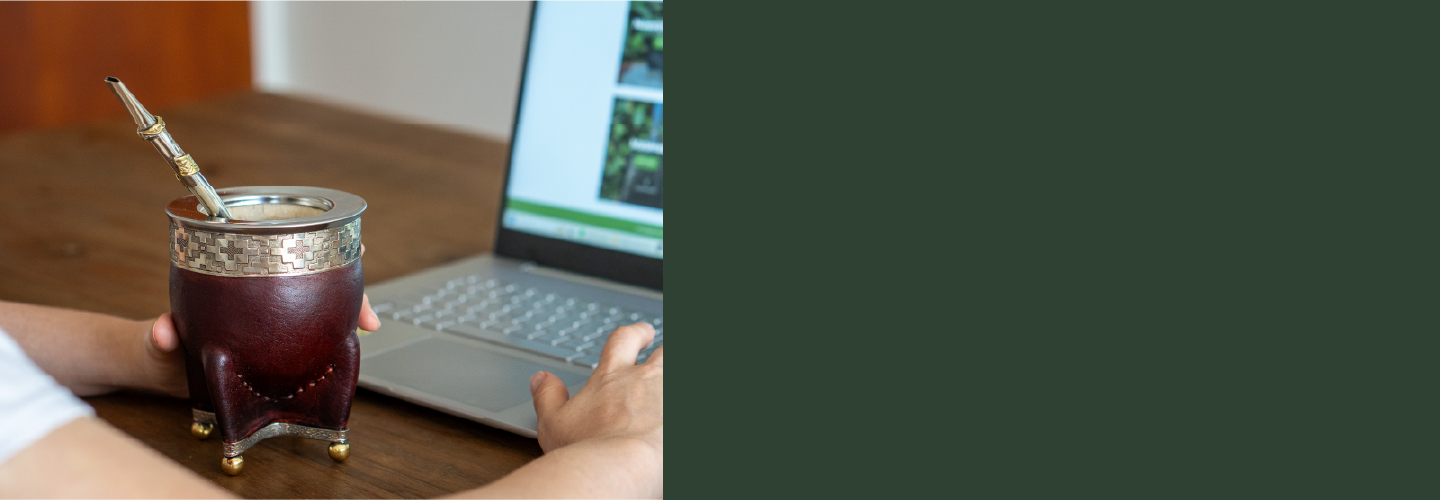
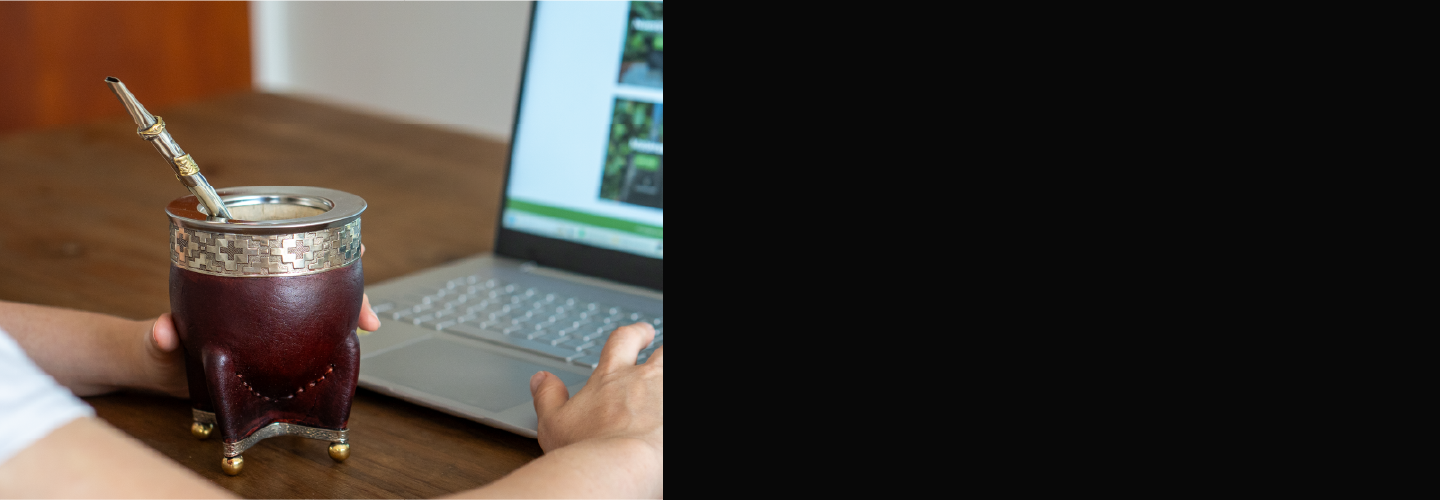
correccion de border y el slider de comunidad

diff --git a/css/principal.css b/css/principal.css
@@ -306,7 +306,7 @@ body {
 /*=========== INFORMACION ====================*/
 
 .informacion {
-  background: #050505;
+  background: #2f4132;
   padding: 70px 20px;
 }
 
@@ -779,7 +779,11 @@ body {
   max-width: 250px;
   background: #111;
   border-radius: 14px;
-  padding: 5px;
+  padding-top: 10px;
+  padding-left: 10px;
+  padding-right: 10px;
+  padding-bottom: 8px;
+
   position: relative;
   border: 1px solid #b3b3b3;
   transition: 0.3s;
@@ -1040,7 +1044,12 @@ body {
   max-width: 230px;
   border: 1px solid #fff;
   border-radius: 16px;
-  padding: 12px;
+
+  padding-top: 10px;
+  padding-left: 10px;
+  padding-right: 10px;
+  padding-bottom: 8px;
+
   color: #fff;
   display: flex;
   flex-direction: column;
@@ -1233,33 +1242,89 @@ body {
 /* Responsive */
 @media (max-width: 900px) {
   .reviews {
-    height: 25rem;
+    height: auto;
     border-radius: 20px;
-
-    padding: 20px 40px;
+    padding: 20px 0;
     text-align: center;
     color: #fff;
     margin-bottom: 1rem;
-    margin-top: 1rem;
+    margin-top: 2rem;
+    overflow: hidden;
   }
 
   .reviews h2 {
-    margin-top: 0px;
-    margin-bottom: 0px;
-    padding: 0;
+    margin-top: 0;
+    margin-bottom: 25px;
+    padding: 0 20px;
   }
 
+  /* Contenedor visible del slider */
+  .reviews-slider {
+    width: 100%;
+    max-width: 100%;
+    overflow: hidden;
+    margin: 0;
+  }
+
+  /* Carrusel táctil */
+  .reviews-track {
+    display: flex;
+    gap: 0;
+
+    overflow-x: auto;
+    overflow-y: hidden;
+
+    scroll-snap-type: x mandatory;
+    scroll-behavior: smooth;
+
+    -webkit-overflow-scrolling: touch;
+
+    scrollbar-width: none;
+  }
+
+  /* Ocultar scrollbar en Chrome/Safari */
+  .reviews-track::-webkit-scrollbar {
+    display: none;
+  }
+
+  /* Cada tarjeta ocupa el espacio disponible */
   .review-card {
-    margin-top: 2px;
-    min-width: 100%;
+    flex: 0 0 calc(100% - 40px);
+
+    width: calc(100% - 40px);
+
+    margin: 5px 20px;
+
+    box-sizing: border-box;
+
+    scroll-snap-align: center;
   }
 
-  .reviews-arrow.left {
-    left: 10px;
+  .review-inner {
+    gap: 12px;
+    padding: 10px;
   }
 
-  .reviews-arrow.right {
-    right: 10px;
+  .review-avatar {
+    width: 60px;
+    height: 60px;
+    font-size: 28px;
+  }
+
+  .review-text {
+    font-size: 14px;
+    line-height: 1.5;
+    max-width: 280px;
+  }
+
+  .review-name {
+    font-size: 11px;
+    margin-top: 10px;
+  }
+
+  /* Ocultamos las flechas en mobile */
+  .reviews-arrow {
+    display: none;
   }
 }
 
@@ -1865,4 +1930,13 @@ body {
 
 .accessories-add:hover {
   background: #d19d4c;
+}
+
+.accessories-installments {
+  font-family: var(--font-normal);
+  font-size: 0.9rem;
+  color: #aaa;
+  margin-top: 0;
+  margin-bottom: 8px;
+  line-height: 1.3;
 }

diff --git a/js/review.js b/js/review.js
@@ -88,7 +88,27 @@ document.addEventListener("DOMContentLoaded", () => {
   function updateReviewsSlider() {
     if (!cards.length) return;
 
+    const isMobile = window.innerWidth <= 900;
+
+    if (isMobile) {
+      const card = cards[index];
+
+      if (!card) return;
+
+      const scrollPosition =
+        card.offsetLeft - (track.clientWidth - card.offsetWidth) / 2;
+
+      track.scrollTo({
+        left: scrollPosition,
+        behavior: "smooth",
+      });
+
+      return;
+    }
+
+    // Desktop
     const cardWidth = cards[0].offsetWidth;
+
     track.style.transform = `translateX(-${index * cardWidth}px)`;
   }
 
@@ -104,6 +124,38 @@ document.addEventListener("DOMContentLoaded", () => {
   /* ===================== INIT ===================== */
   renderReviews();
   initReviewsSlider();
+
+  /* ===================== MOBILE SWIPE ===================== */
+
+  let scrollTimeout;
+
+  track.addEventListener("scroll", () => {
+    if (window.innerWidth > 900) return;
+
+    clearTimeout(scrollTimeout);
+
+    scrollTimeout = setTimeout(() => {
+      if (!cards.length) return;
+
+      const trackCenter = track.scrollLeft + track.clientWidth / 2;
+
+      let closestIndex = 0;
+      let closestDistance = Infinity;
+
+      cards.forEach((card, i) => {
+        const cardCenter = card.offsetLeft + card.offsetWidth / 2;
+
+        const distance = Math.abs(trackCenter - cardCenter);
+
+        if (distance < closestDistance) {
+          closestDistance = distance;
+          closestIndex = i;
+        }
+      });
+
+      index = closestIndex;
+    }, 100);
+  });
 
   setInterval(nextReview, 4000);
   window.addEventListener("resize", updateReviewsSlider);

diff --git a/js/principal.js b/js/principal.js
@@ -622,21 +622,19 @@ async function loadAccessories() {
 
       card.className = "accessories-card";
 
-      card.innerHTML = `
-        <img
-          src="${product.image?.[0] || ""}"
-          alt="${product.name}"
-        >
-
-        <h3 class="accessories-name">
-          ${product.name}
-        </h3>
-
-        <span class="accessories-price">
-          ${formatPrice(product.price)}
-        </span>
-
-      `;
+      card.innerHTML = ` <img src="${product.image?.[0] || ""}" alt="${
+        product.name
+      }" > <h3 class="accessories-name"> ${
+        product.name
+      } </h3> <span class="accessories-price"> ${formatPrice(
+        product.price
+      )} </span> ${
+        Number(product.price) > 0
+          ? ` <p class="accessories-installments"> o 3 cuotas sin interés de ${formatPrice(
+              Number(product.price) / 3
+            )} c/u </p> `
+          : ""
+      } `;
 
       card.addEventListener("click", () => {
         window.location.href = `./producto-card.html?id=${product.id}`;

diff --git a/index.html b/index.html
@@ -333,7 +333,7 @@
       </section>
 
       <!--=================NAV INFERIOR=================-->
-      <section class="navegacion-inferior">
+      <section class="navegacion-inferior nav-inferior-principal">
         <div class="contenedor-inferior">
           <!-- SEGUINOS -->
           <div class="cubo-inferior acordeon">

diff --git a/css/nav-inferior.css b/css/nav-inferior.css
@@ -308,3 +308,7 @@ a {
   display: block;
   text-align: left !important;
 }
+
+.nav-inferior-principal {
+  background-color: #080808;
+}
